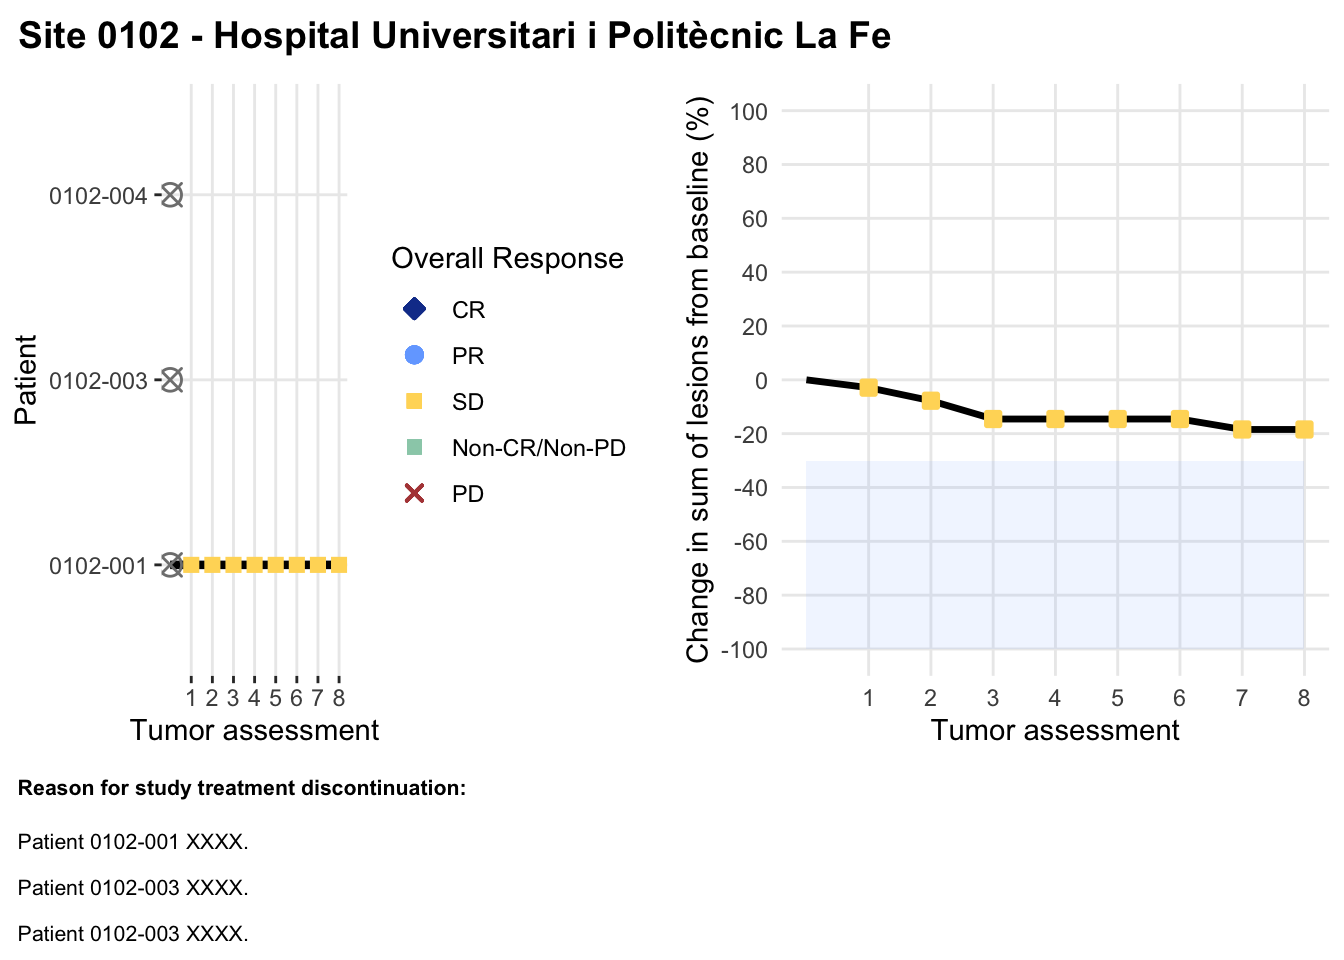
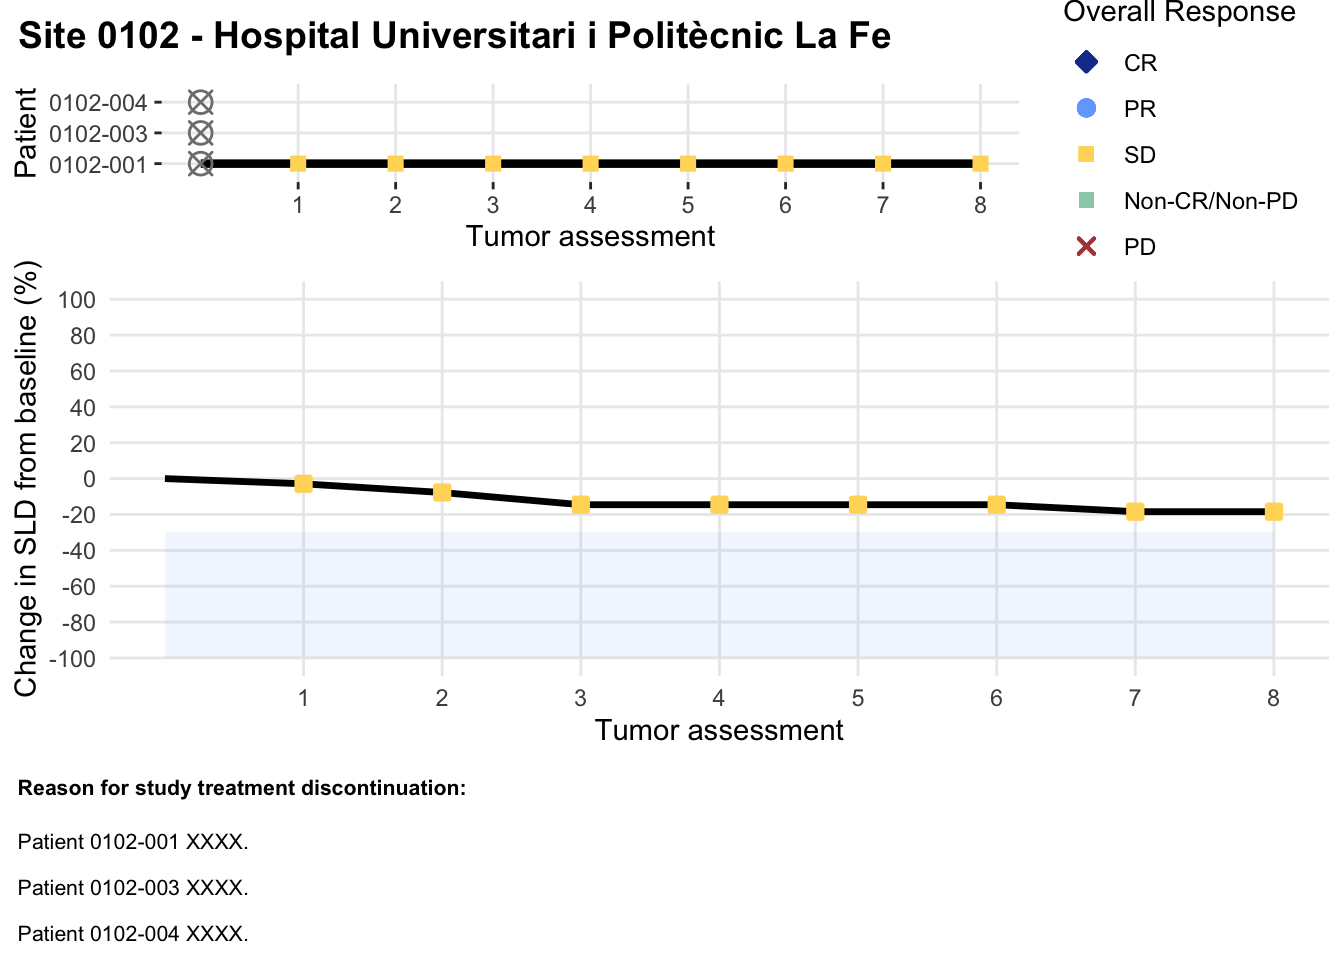
Build site.

diff --git a/docs/WP1_Preliminary-analysis_2023-10-24.html b/docs/WP1_Preliminary-analysis_2023-10-24.html
@@ -519,15 +519,15 @@ project makes it easier to run your code on other machines.</p>
 <div class="panel panel-default">
 <div class="panel-heading">
 <p class="panel-title">
-<a data-toggle="collapse" data-parent="#workflowr-checks" href="#strongRepositoryversionstrongahrefhttpsgithubcomMedsirScientificPECATItreec86fbc8ded62a6678be5cbd076c0f2635337a4fatargetblankc86fbc8a">
+<a data-toggle="collapse" data-parent="#workflowr-checks" href="#strongRepositoryversionstrongahrefhttpsgithubcomMedsirScientificPECATItree6bb9d94defc0354deed446d0a959e7561ba409f0targetblank6bb9d94a">
 <span class="glyphicon glyphicon-ok text-success"
 aria-hidden="true"></span> <strong>Repository version:</strong>
-<a href="https://github.com/MedsirScientific/PECATI/tree/c86fbc8ded62a6678be5cbd076c0f2635337a4fa" target="_blank">c86fbc8</a>
+<a href="https://github.com/MedsirScientific/PECATI/tree/6bb9d94defc0354deed446d0a959e7561ba409f0" target="_blank">6bb9d94</a>
 </a>
 </p>
 </div>
 <div
[2 lines of base64/hex data omitted]
 class="panel-collapse collapse">
 <div class="panel-body">
 <p>
@@ -537,7 +537,7 @@ reproducibility.
 </p>
 <p>
 The results in this page were generated with repository version
-<a href="https://github.com/MedsirScientific/PECATI/tree/c86fbc8ded62a6678be5cbd076c0f2635337a4fa" target="_blank">c86fbc8</a>.
+<a href="https://github.com/MedsirScientific/PECATI/tree/6bb9d94defc0354deed446d0a959e7561ba409f0" target="_blank">6bb9d94</a>.
 See the <em>Past versions</em> tab to see a history of the changes made
 to the R Markdown and HTML files.
 </p>
@@ -614,6 +614,40 @@ Message
 </tr>
 </thead>
 <tbody>
+<tr>
+<td>
+Rmd
+</td>
+<td>
+<a href="https://github.com/MedsirScientific/PECATI/blob/6bb9d94defc0354deed446d0a959e7561ba409f0/analysis/WP1_Preliminary-analysis_2023-10-24.Rmd" target="_blank">6bb9d94</a>
+</td>
+<td>
+Daniel Alcalá
+</td>
+<td>
+2023-10-25
+</td>
+<td>
+Fix swimmer-and-spider plot relative ratio
+</td>
+</tr>
+<tr>
+<td>
+html
+</td>
+<td>
+<a href="https://rawcdn.githack.com/MedsirScientific/PECATI/48723bcdb2cb8435bca607f660a0596e21f3c192/docs/WP1_Preliminary-analysis_2023-10-24.html" target="_blank">48723bc</a>
+</td>
+<td>
+Daniel Alcalá
+</td>
+<td>
+2023-10-25
+</td>
+<td>
+Build site.
+</td>
+</tr>
 <tr>
 <td>
 Rmd
@@ -2236,6 +2270,44 @@ class="section level4">
 <h4><strong>Figure 2. Swimmer and spider plots of tumor
 assessments</strong></h4>
 <p><img src="figure/WP1_Preliminary-analysis_2023-10-24.Rmd/site-0102-swimmer-spider-plot-1.png" width="672" style="display: block; margin: auto;" /></p>
+<p>
+<button type="button" class="btn btn-default btn-xs btn-workflowr btn-workflowr-fig" data-toggle="collapse" data-target="#fig-site-0102-swimmer-spider-plot-1">
+Past versions of site-0102-swimmer-spider-plot-1.png
+</button>
+</p>
+<div id="fig-site-0102-swimmer-spider-plot-1" class="collapse">
+<div class="table-responsive">
+<table class="table table-condensed table-hover">
+<thead>
+<tr>
+<th>
+Version
+</th>
+<th>
+Author
+</th>
+<th>
+Date
+</th>
+</tr>
+</thead>
+<tbody>
+<tr>
+<td>
+<a href="https://github.com/MedsirScientific/PECATI/blob/48723bcdb2cb8435bca607f660a0596e21f3c192/docs/figure/WP1_Preliminary-analysis_2023-10-24.Rmd/site-0102-swimmer-spider-plot-1.png" target="_blank">48723bc</a>
+</td>
+<td>
+Daniel Alcalá
+</td>
+<td>
+2023-10-25
+</td>
+</tr>
+</tbody>
+</table>
+</div>
+</div>
+<p><img src="figure/WP1_Preliminary-analysis_2023-10-24.Rmd/site-0103-swimmer-spider-plot-1.png" width="672" style="display: block; margin: auto;" /></p>
 </div>
 </div>
 </div>
